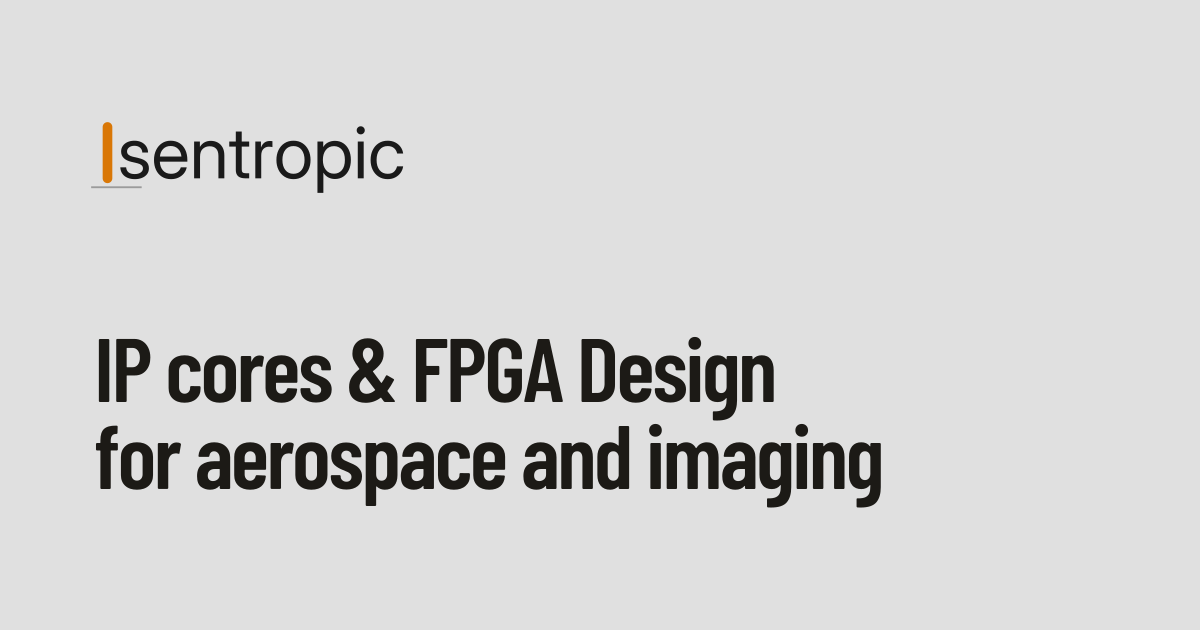
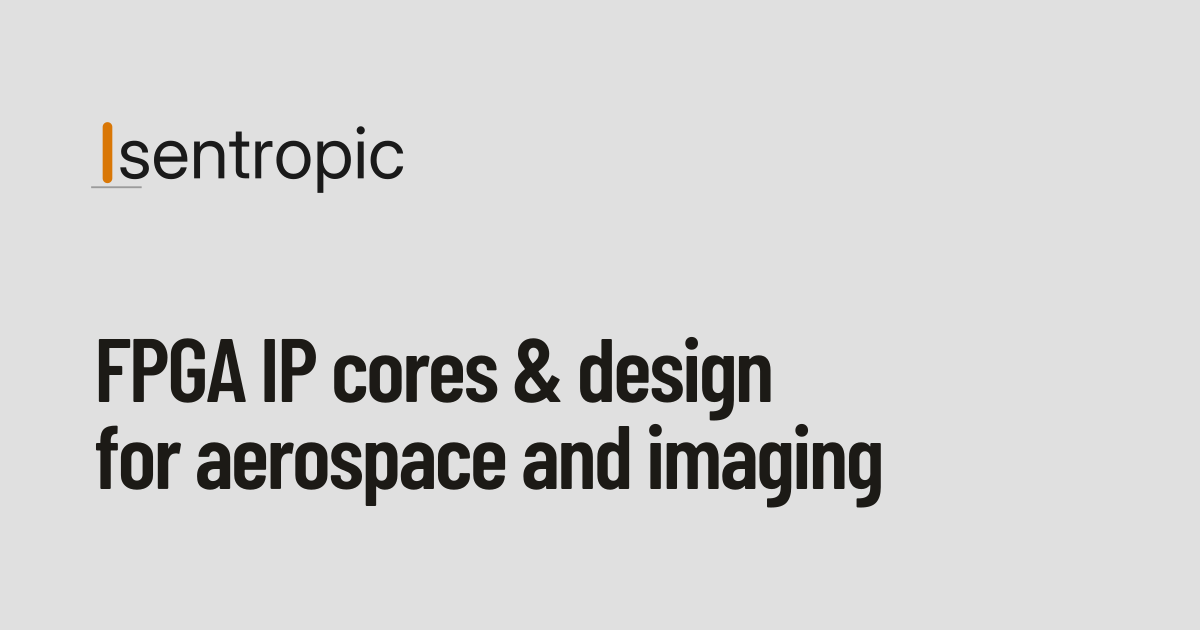
Reword the tagline to "FPGA IP cores & design for aerospace and imaging"

Changed region(s): [[0.0925, 0.5127, 0.6475, 0.6635]]

diff --git a/Home.dc.html b/Home.dc.html
@@ -11,22 +11,22 @@
 <link rel="stylesheet" href="_ds/industry-8df8084b-247a-4c13-b5b0-50b41d41eb2f/styles.css">
 <script src="_ds/industry-8df8084b-247a-4c13-b5b0-50b41d41eb2f/_ds_bundle.js"></script>
 <link rel="icon" href="out/isentropic-icon-512.png">
-<title>Isentropic — IP cores &amp; FPGA design for aerospace and imaging</title>
+<title>Isentropic — FPGA IP cores &amp; design for aerospace and imaging</title>
 <meta name="description" content="Isentropic builds high-technology FPGA hardware for imaging and aerospace: FPGA design &amp; verification services and licensable IP cores including OpenJLS, a JPEG-LS encoder for FPGAs.">
 <link rel="canonical" href="https://isentropic.com.br/">
 <meta property="og:type" content="website">
 <meta property="og:site_name" content="Isentropic">
-<meta property="og:title" content="Isentropic — IP cores &amp; FPGA design for aerospace and imaging">
+<meta property="og:title" content="Isentropic — FPGA IP cores &amp; design for aerospace and imaging">
 <meta property="og:description" content="FPGA design &amp; verification and IP cores for imaging and aerospace, built with engineering rigor.">
 <meta property="og:image" content="https://isentropic.com.br/out/og-card.png">
 <meta property="og:image:width" content="1200">
 <meta property="og:image:height" content="630">
 <meta property="og:image:type" content="image/png">
-<meta property="og:image:alt" content="Isentropic — IP cores &amp; FPGA Design for aerospace and imaging">
+<meta property="og:image:alt" content="Isentropic — FPGA IP cores &amp; design for aerospace and imaging">
 <meta property="og:url" content="https://isentropic.com.br/">
 <meta name="twitter:card" content="summary_large_image">
 <meta name="twitter:image" content="https://isentropic.com.br/out/og-card.png">
-<meta name="twitter:image:alt" content="Isentropic — IP cores &amp; FPGA Design for aerospace and imaging">
+<meta name="twitter:image:alt" content="Isentropic — FPGA IP cores &amp; design for aerospace and imaging">
 <script type="application/ld+json">
 {"@context":"https://schema.org","@type":"Organization","name":"Isentropic","url":"https://isentropic.com.br/","logo":"https://isentropic.com.br/out/isentropic-icon-512.png","sameAs":["https://github.com/isentropic-fpga","https://www.linkedin.com/company/isentropic-fpga/"],"email":"contact@isentropic.com.br","description":"FPGA design & verification and IP cores for the imaging and aerospace industry.","knowsAbout":["FPGA design","Hardware verification","JPEG-LS","Image compression","Aerospace electronics"]}
 </script>
@@ -52,7 +52,7 @@
 
   <!-- HERO -->
   <section style="padding:150px var(--edge) 130px;display:flex;flex-direction:column;align-items:center;text-align:center;gap:30px;">
-    <h1 class="hero-h" style="margin:0;max-width:16ch;">IP cores &amp; FPGA design for aerospace and imaging.</h1>
+    <h1 class="hero-h" style="margin:0;max-width:16ch;">FPGA IP cores &amp; design for aerospace and imaging.</h1>
     <p style="font-size:clamp(18px,2vw,21px);line-height:1.55;font-weight:400;margin:0;max-width:34ch;color:color-mix(in srgb,var(--color-text) 66%,transparent);">Built to specification and proven in silicon, verified against an independent reference before it ships.</p>
     
   </section>

diff --git a/export/index.html b/export/index.html
@@ -535,22 +535,22 @@ html[data-theme="dark"] .theme-btn .ico-moon{display:none;}
 })();
 </script>
 <link rel="icon" href="assets/isentropic-icon-512.png">
-<title>Isentropic — IP cores &amp; FPGA design for aerospace and imaging</title>
+<title>Isentropic — FPGA IP cores &amp; design for aerospace and imaging</title>
 <meta name="description" content="Isentropic builds high-technology FPGA hardware for imaging and aerospace: FPGA design &amp; verification services and licensable IP cores including OpenJLS, a JPEG-LS encoder for FPGAs.">
 <link rel="canonical" href="https://isentropic.com.br/">
 <meta property="og:type" content="website">
 <meta property="og:site_name" content="Isentropic">
-<meta property="og:title" content="Isentropic — IP cores &amp; FPGA design for aerospace and imaging">
+<meta property="og:title" content="Isentropic — FPGA IP cores &amp; design for aerospace and imaging">
 <meta property="og:description" content="FPGA design &amp; verification and IP cores for imaging and aerospace, built with engineering rigor.">
 <meta property="og:image" content="https://isentropic.com.br/assets/og-card.png">
 <meta property="og:image:width" content="1200">
 <meta property="og:image:height" content="630">
 <meta property="og:image:type" content="image/png">
-<meta property="og:image:alt" content="Isentropic — IP cores &amp; FPGA Design for aerospace and imaging">
+<meta property="og:image:alt" content="Isentropic — FPGA IP cores &amp; design for aerospace and imaging">
 <meta property="og:url" content="https://isentropic.com.br/">
 <meta name="twitter:card" content="summary_large_image">
 <meta name="twitter:image" content="https://isentropic.com.br/assets/og-card.png">
-<meta name="twitter:image:alt" content="Isentropic — IP cores &amp; FPGA Design for aerospace and imaging">
+<meta name="twitter:image:alt" content="Isentropic — FPGA IP cores &amp; design for aerospace and imaging">
 <script type="application/ld+json">
 {"@context":"https://schema.org","@type":"Organization","name":"Isentropic","url":"https://isentropic.com.br/","logo":"https://isentropic.com.br/assets/isentropic-icon-512.png","sameAs":["https://github.com/isentropic-fpga","https://www.linkedin.com/company/isentropic-fpga/"],"email":"contact@isentropic.com.br","description":"FPGA design & verification and IP cores for the imaging and aerospace industry.","knowsAbout":["FPGA design","Hardware verification","JPEG-LS","Image compression","Aerospace electronics"]}
 </script>
@@ -574,7 +574,7 @@ html[data-theme="dark"] .theme-btn .ico-moon{display:none;}
 
   <!-- HERO -->
   <section style="padding:150px var(--edge) 130px;display:flex;flex-direction:column;align-items:center;text-align:center;gap:30px;">
-    <h1 class="hero-h" style="margin:0;max-width:16ch;">IP cores &amp; FPGA design for aerospace and imaging.</h1>
+    <h1 class="hero-h" style="margin:0;max-width:16ch;">FPGA IP cores &amp; design for aerospace and imaging.</h1>
     <p style="font-size:clamp(18px,2vw,21px);line-height:1.55;font-weight:400;margin:0;max-width:34ch;color:color-mix(in srgb,var(--color-text) 66%,transparent);">Built to specification and proven in silicon, verified against an independent reference before it ships.</p>
     
   </section>

diff --git a/export/contact.html b/export/contact.html
@@ -546,11 +546,11 @@ html[data-theme="dark"] .theme-btn .ico-moon{display:none;}
 <meta property="og:image:width" content="1200">
 <meta property="og:image:height" content="630">
 <meta property="og:image:type" content="image/png">
-<meta property="og:image:alt" content="Isentropic — IP cores &amp; FPGA Design for aerospace and imaging">
+<meta property="og:image:alt" content="Isentropic — FPGA IP cores &amp; design for aerospace and imaging">
 <meta property="og:url" content="https://isentropic.com.br/contact">
 <meta name="twitter:card" content="summary_large_image">
 <meta name="twitter:image" content="https://isentropic.com.br/assets/og-card.png">
-<meta name="twitter:image:alt" content="Isentropic — IP cores &amp; FPGA Design for aerospace and imaging">
+<meta name="twitter:image:alt" content="Isentropic — FPGA IP cores &amp; design for aerospace and imaging">
 <script type="application/ld+json">
 {"@context":"https://schema.org","@type":"Organization","name":"Isentropic","url":"https://isentropic.com.br/","logo":"https://isentropic.com.br/assets/isentropic-icon-512.png","sameAs":["https://github.com/isentropic-fpga","https://www.linkedin.com/company/isentropic-fpga/"],"email":"contact@isentropic.com.br","contactPoint":{"@type":"ContactPoint","email":"contact@isentropic.com.br","contactType":"sales","areaServed":"Worldwide","availableLanguage":["en","pt-BR"]}}
 </script>

diff --git a/Contact.dc.html b/Contact.dc.html
@@ -22,11 +22,11 @@
 <meta property="og:image:width" content="1200">
 <meta property="og:image:height" content="630">
 <meta property="og:image:type" content="image/png">
-<meta property="og:image:alt" content="Isentropic — IP cores &amp; FPGA Design for aerospace and imaging">
+<meta property="og:image:alt" content="Isentropic — FPGA IP cores &amp; design for aerospace and imaging">
 <meta property="og:url" content="https://isentropic.com.br/contact">
 <meta name="twitter:card" content="summary_large_image">
 <meta name="twitter:image" content="https://isentropic.com.br/out/og-card.png">
-<meta name="twitter:image:alt" content="Isentropic — IP cores &amp; FPGA Design for aerospace and imaging">
+<meta name="twitter:image:alt" content="Isentropic — FPGA IP cores &amp; design for aerospace and imaging">
 <script type="application/ld+json">
 {"@context":"https://schema.org","@type":"Organization","name":"Isentropic","url":"https://isentropic.com.br/","logo":"https://isentropic.com.br/out/isentropic-icon-512.png","sameAs":["https://github.com/isentropic-fpga","https://www.linkedin.com/company/isentropic-fpga/"],"email":"contact@isentropic.com.br","contactPoint":{"@type":"ContactPoint","email":"contact@isentropic.com.br","contactType":"sales","areaServed":"Worldwide","availableLanguage":["en","pt-BR"]}}
 </script>

diff --git a/export/products.html b/export/products.html
@@ -546,11 +546,11 @@ html[data-theme="dark"] .theme-btn .ico-moon{display:none;}
 <meta property="og:image:width" content="1200">
 <meta property="og:image:height" content="630">
 <meta property="og:image:type" content="image/png">
-<meta property="og:image:alt" content="Isentropic — IP cores &amp; FPGA Design for aerospace and imaging">
+<meta property="og:image:alt" content="Isentropic — FPGA IP cores &amp; design for aerospace and imaging">
 <meta property="og:url" content="https://isentropic.com.br/products">
 <meta name="twitter:card" content="summary_large_image">
 <meta name="twitter:image" content="https://isentropic.com.br/assets/og-card.png">
-<meta name="twitter:image:alt" content="Isentropic — IP cores &amp; FPGA Design for aerospace and imaging">
+<meta name="twitter:image:alt" content="Isentropic — FPGA IP cores &amp; design for aerospace and imaging">
 <script type="application/ld+json">
 {"@context":"https://schema.org","@type":"Organization","name":"Isentropic","url":"https://isentropic.com.br/","logo":"https://isentropic.com.br/assets/isentropic-icon-512.png","sameAs":["https://github.com/isentropic-fpga","https://www.linkedin.com/company/isentropic-fpga/"],"email":"contact@isentropic.com.br"}
 </script>

diff --git a/export/services.html b/export/services.html
@@ -546,11 +546,11 @@ html[data-theme="dark"] .theme-btn .ico-moon{display:none;}
 <meta property="og:image:width" content="1200">
 <meta property="og:image:height" content="630">
 <meta property="og:image:type" content="image/png">
-<meta property="og:image:alt" content="Isentropic — IP cores &amp; FPGA Design for aerospace and imaging">
+<meta property="og:image:alt" content="Isentropic — FPGA IP cores &amp; design for aerospace and imaging">
 <meta property="og:url" content="https://isentropic.com.br/services">
 <meta name="twitter:card" content="summary_large_image">
 <meta name="twitter:image" content="https://isentropic.com.br/assets/og-card.png">
-<meta name="twitter:image:alt" content="Isentropic — IP cores &amp; FPGA Design for aerospace and imaging">
+<meta name="twitter:image:alt" content="Isentropic — FPGA IP cores &amp; design for aerospace and imaging">
 <script type="application/ld+json">
 {"@context":"https://schema.org","@type":"Organization","name":"Isentropic","url":"https://isentropic.com.br/","logo":"https://isentropic.com.br/assets/isentropic-icon-512.png","sameAs":["https://github.com/isentropic-fpga","https://www.linkedin.com/company/isentropic-fpga/"],"email":"contact@isentropic.com.br"}
 </script>

diff --git a/Products.dc.html b/Products.dc.html
@@ -22,11 +22,11 @@
 <meta property="og:image:width" content="1200">
 <meta property="og:image:height" content="630">
 <meta property="og:image:type" content="image/png">
-<meta property="og:image:alt" content="Isentropic — IP cores &amp; FPGA Design for aerospace and imaging">
+<meta property="og:image:alt" content="Isentropic — FPGA IP cores &amp; design for aerospace and imaging">
 <meta property="og:url" content="https://isentropic.com.br/products">
 <meta name="twitter:card" content="summary_large_image">
 <meta name="twitter:image" content="https://isentropic.com.br/out/og-card.png">
-<meta name="twitter:image:alt" content="Isentropic — IP cores &amp; FPGA Design for aerospace and imaging">
+<meta name="twitter:image:alt" content="Isentropic — FPGA IP cores &amp; design for aerospace and imaging">
 <script type="application/ld+json">
 {"@context":"https://schema.org","@type":"Organization","name":"Isentropic","url":"https://isentropic.com.br/","logo":"https://isentropic.com.br/out/isentropic-icon-512.png","sameAs":["https://github.com/isentropic-fpga","https://www.linkedin.com/company/isentropic-fpga/"],"email":"contact@isentropic.com.br"}
 </script>

diff --git a/Projects.dc.html b/Projects.dc.html
@@ -22,11 +22,11 @@
 <meta property="og:image:width" content="1200">
 <meta property="og:image:height" content="630">
 <meta property="og:image:type" content="image/png">
-<meta property="og:image:alt" content="Isentropic — IP cores &amp; FPGA Design for aerospace and imaging">
+<meta property="og:image:alt" content="Isentropic — FPGA IP cores &amp; design for aerospace and imaging">
 <meta property="og:url" content="https://isentropic.com.br/services">
 <meta name="twitter:card" content="summary_large_image">
 <meta name="twitter:image" content="https://isentropic.com.br/out/og-card.png">
-<meta name="twitter:image:alt" content="Isentropic — IP cores &amp; FPGA Design for aerospace and imaging">
+<meta name="twitter:image:alt" content="Isentropic — FPGA IP cores &amp; design for aerospace and imaging">
 <script type="application/ld+json">
 {"@context":"https://schema.org","@type":"Organization","name":"Isentropic","url":"https://isentropic.com.br/","logo":"https://isentropic.com.br/out/isentropic-icon-512.png","sameAs":["https://github.com/isentropic-fpga","https://www.linkedin.com/company/isentropic-fpga/"],"email":"contact@isentropic.com.br"}
 </script>
